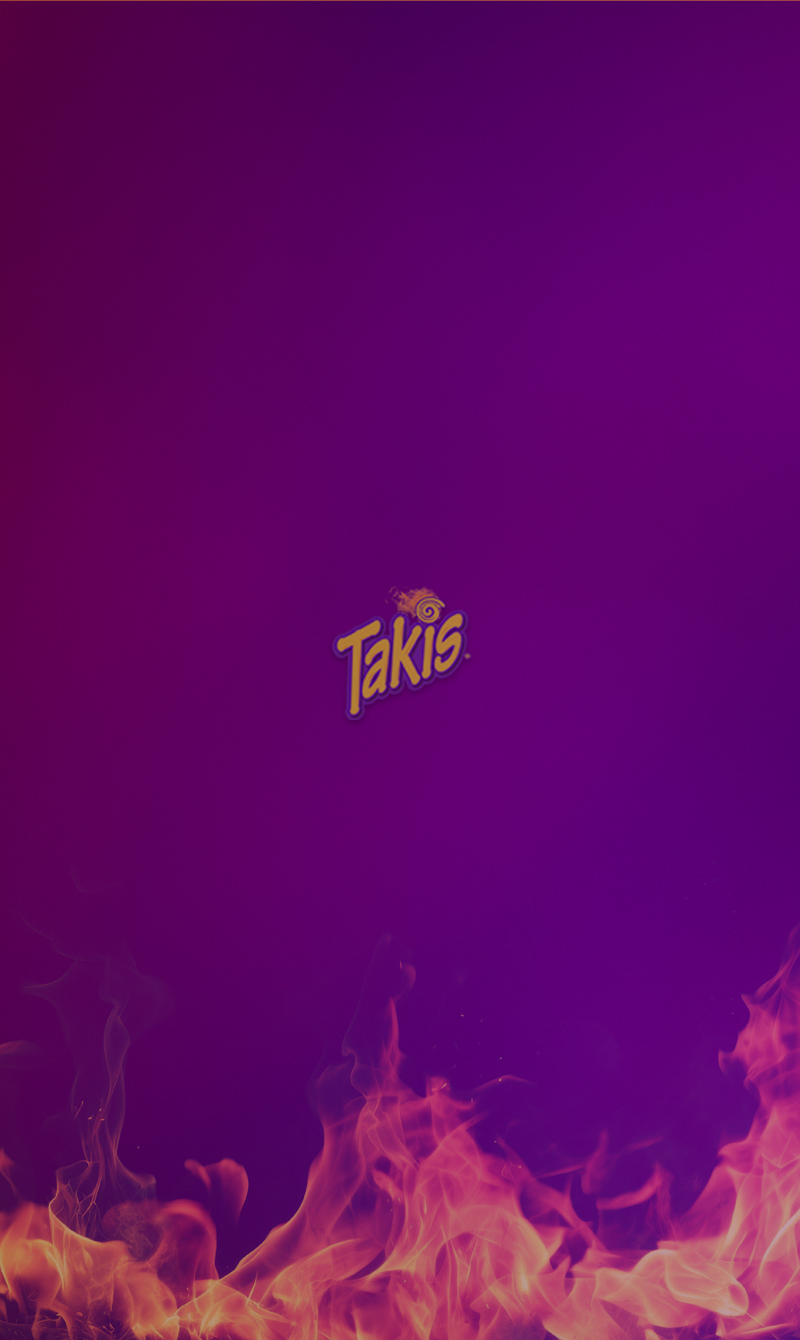
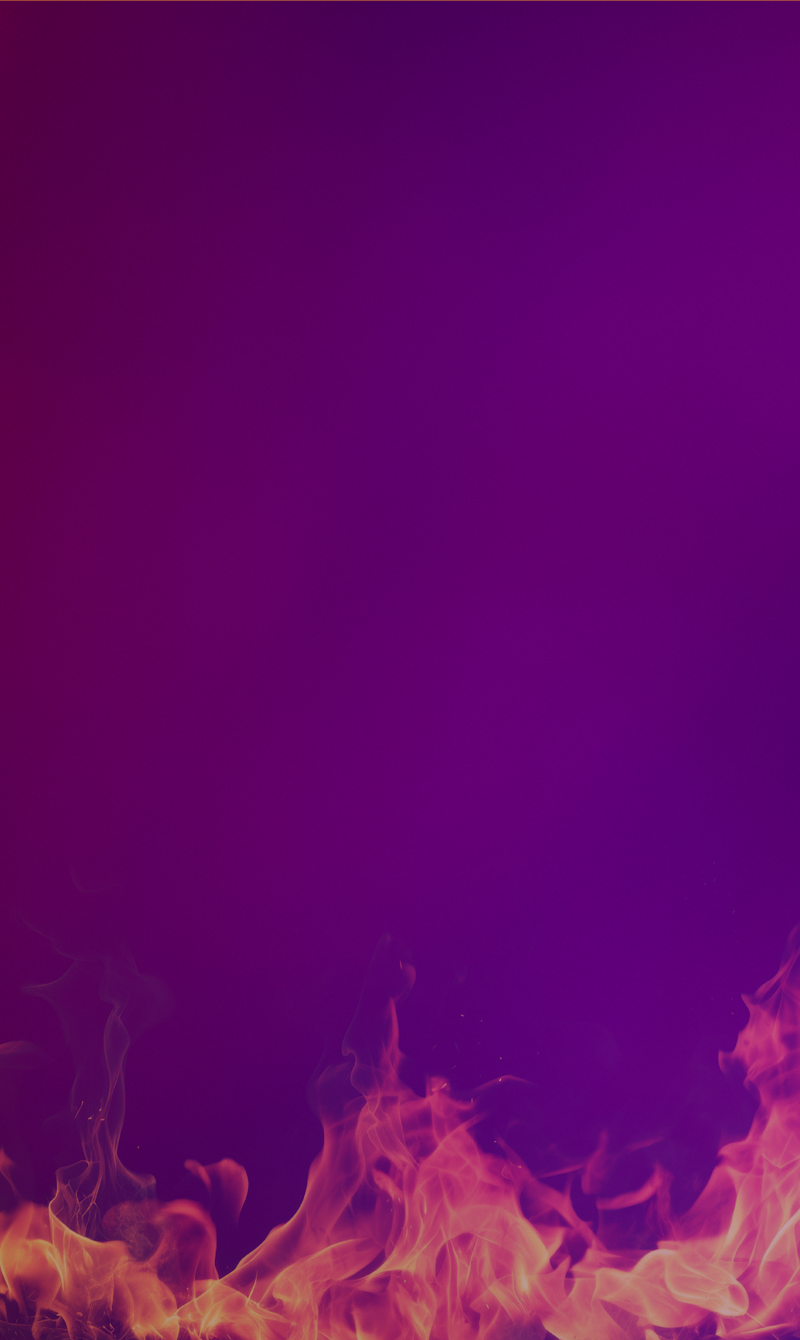
feat: update background and fix qrcode image

Changed region(s): [[0.4062, 0.4284, 0.5938, 0.5507]]

diff --git a/components/VictoryModal.tsx b/components/VictoryModal.tsx
@@ -1,4 +1,4 @@
-const qrCode = require('@/assets/images/qr-code.png')
+const qrCode = require('@/assets/images/qr-code.jpg')
 import { colors } from '@/constants/colors'
 import { TIME_LIMIT } from '@/constants/game'
 import React from 'react'
@@ -85,7 +85,7 @@ const s = StyleSheet.create({
     fontSize: 14,
     paddingHorizontal: 16,
     textAlign: 'center',
-    width: '80%'
+    width: '80%',
   },
   qrCode: {
     width: 160,
